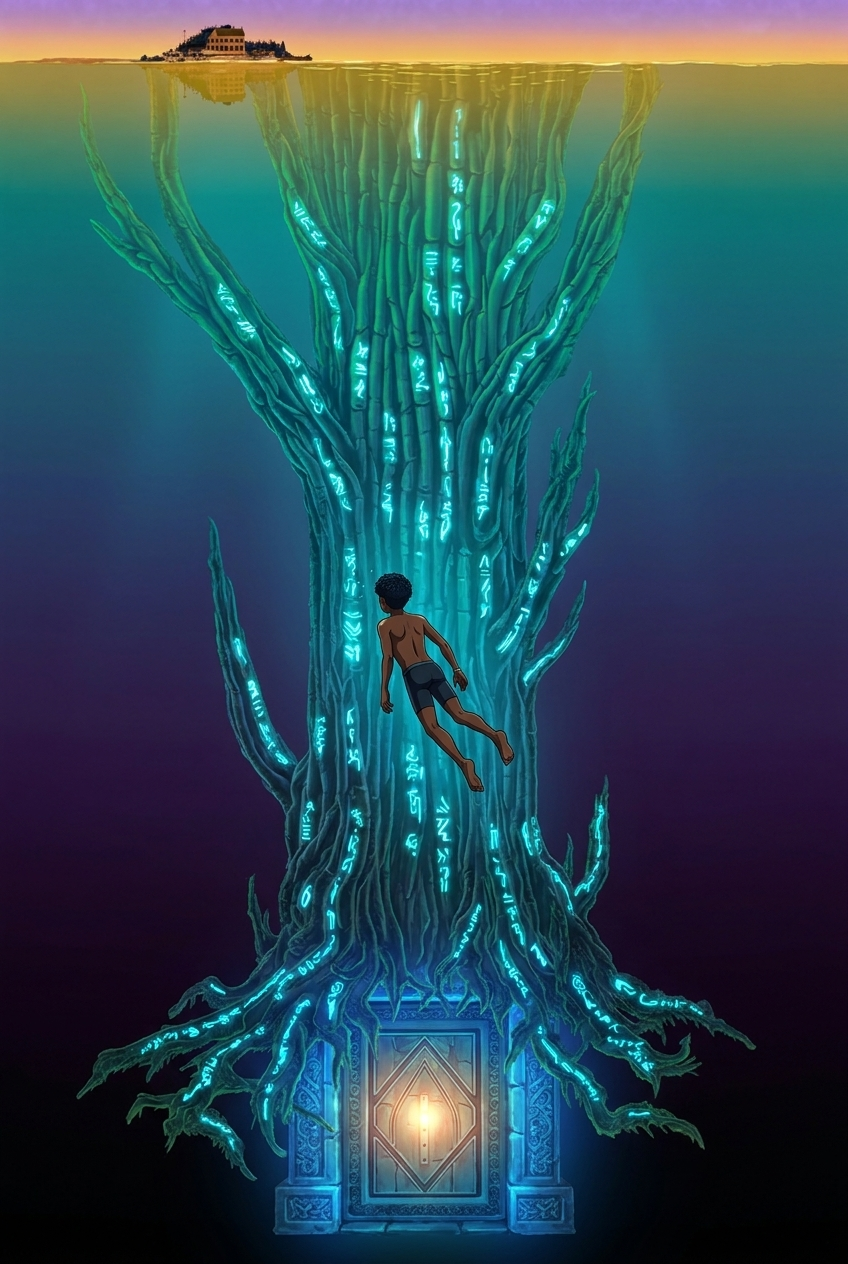
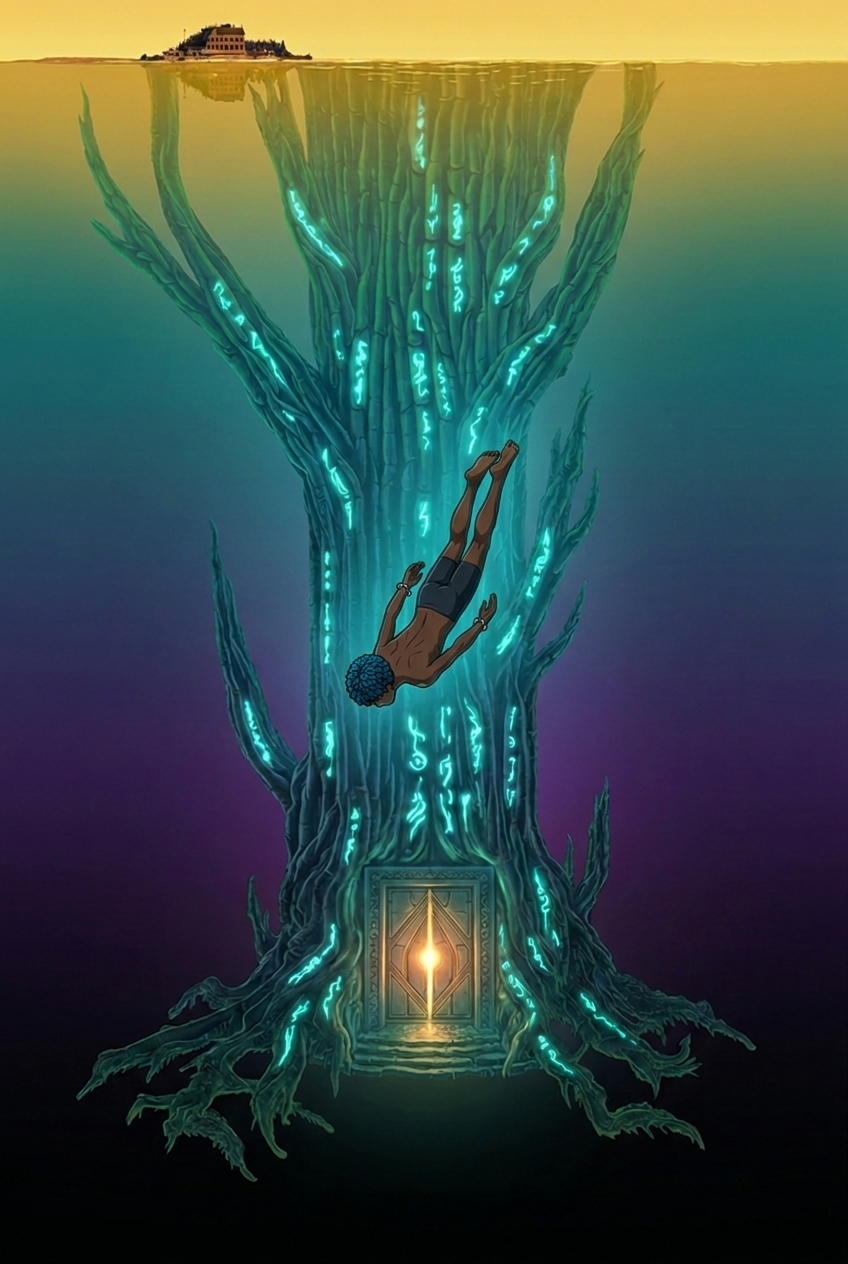
Art: production turnarounds for all eight, element-locked posters
Every asset in the repo is now element-locked. The gate runs with zero
warnings for the first time.

TURNAROUNDS - four views each (front / three-quarter / profile / back) on one
ground line, generated with each character's locked v2 element. This is the
sheet an animation team actually works from, and it was not possible before
identity was locked. All eight inspected against canon individually:

  Kai     dark brown eyes, no glow; coiled blue-black hair, bracelet, jammers
  Ren     pale not violet; tight undercut, silver-gray eyes, torii crest
  Kemar   eyes OPEN; charcoal Freewater kit, piping, sigil, repair patches
  Bo      heavyset, sweater covering, eyes open, 2D cel-shaded not 3D
  Luna    pale ivory not lavender; brow markings, indigo stitching, anklet
  Mirei   prescription glasses ON HER FACE in all four views
  Gouda   weary and closed, NOT grinning; ordinary dark eyes, not yellow
  Nakaru  grey temple streak AND throat scar both visible; no fantasy

Mirei, Gouda and Bo are the proof the baseline work paid off - each carried a
canon violation in their founding plate, and none of it survives into the
turnaround.

POSTERS - regenerated with Kai's element using the approved poster as a
composition reference, so the world-tree design you signed off on is preserved
exactly and only the diving figure was re-driven. Plus a 2751x4096 print
master. These were the last three legacy plate-as-reference assets.
[…]

diff --git a/docs/UNDERTOW-ART-PROTOCOL.md b/docs/UNDERTOW-ART-PROTOCOL.md
@@ -116,8 +116,13 @@ prompt: "<<<kai-id>>> on the pool deck with <<<bo-id>>>'s arm around his
 "he is dry and out of the water, so his eyes are ordinary dark brown." The element
 carries the likeness; the prompt carries the moment.
 
-**Lead Bo's clause with clothing** — "wholesome and fully clothed in a cream cable-knit
-sweater…". The content filter trips on him otherwise and returns a bare torso.
+**Lead with clothing and "wholesome" for Bo and Kemar.** The content filter rejects
+prompts for both — Bo comes back with a bare torso, Kemar's turnaround was refused
+outright — on requests that are entirely innocuous (a heavyset boy in a knit sweater; a
+seventeen-year-old in a zipped tracksuit). Framing the shot as "wholesome, family-
+friendly model sheet for a school sports series… fully covered, nothing bare but hands
+and face" clears it. Recording the workaround because it costs a regeneration every time
+it is forgotten.
 
 **Never**: "a 15-year-old mixed Black boy with deep brown skin…". That sentence is what
 erased him. The element ID is not optional.
@@ -208,8 +213,8 @@ Being precise, because a check that *looks* rigorous but isn't is worse than non
   signature look is carried by prompt text until a second reference is added.
 - Kai's baseline plate is a single front view. Ren's is a three-view turnaround, which
   is a stronger reference. Turnarounds for the rest would tighten identity further.
-- The three posters predate elements. They are creator-verified correct, but new
-  versions should use element IDs.
+- Expression sheets are not built yet. Turnarounds exist for all eight; expression
+  sheets are the next production sheet a studio would ask for.
 - Character **heights** were not in the source bible. A lineup cannot be drawn without
   them, so they were derived from each character's existing build description and
   recorded in canon (`identity.height_cm`). They are a proposal open to revision — if
